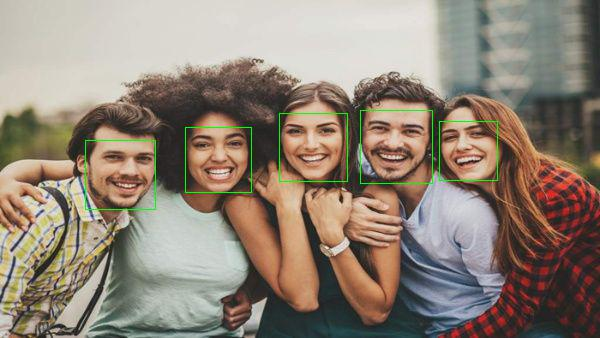
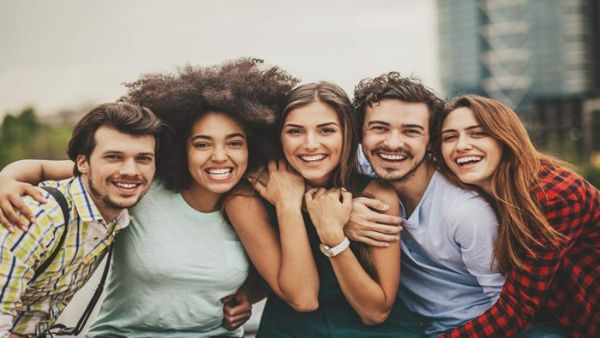
Add processed-images folder

Changed region(s): [[0.45, 0.2959, 0.84, 0.5621], [0.12, 0.3846, 0.27, 0.6509], [0.3, 0.355, 0.42, 0.5917]]

diff --git a/Server/server.py b/Server/server.py
@@ -9,6 +9,9 @@ import threading
 from fdlite import FaceDetection, FaceDetectionModel
 from fdlite.render import Colors, detections_to_render_data, render_to_image 
 from PIL import Image
+import shutil
+
+DIRECTORY =  os.getcwd()
 
 class MyHandler(FTPHandler):
 
@@ -44,7 +47,9 @@ class MyHandler(FTPHandler):
             render_data = detections_to_render_data(faces, bounds_color=Colors.GREEN)
             newImage = render_to_image(render_data, image)
             fileName =  os.path.basename(str(file))
-            newImage.save('/home/racso/NetworkChallenge-FaceDetection/Server/raw-images/' + fileName)
+            newImage.save(DIRECTORY+"/processed-images/processed-"+fileName)
+            shutil.move(file, DIRECTORY+"/raw-images/"+fileName)
+        
         
     def on_incomplete_file_sent(self, file):
         # do something when a file is partially sent
@@ -59,7 +64,7 @@ def httpServer():
     HTTP_HOST = 'localhost'
     HTTP_PORT = 8000
     HANDLER = SimpleHTTPRequestHandler
-    os.chdir("/home/racso/NetworkChallenge-FaceDetection/Server/")
+    os.chdir(DIRECTORY)
     httpd = socketserver.TCPServer((HTTP_HOST,HTTP_PORT), HANDLER)
     httpd.serve_forever()
 
@@ -67,12 +72,11 @@ def ftpServer():
     FTP_PORT = 2121
     FTP_USER = "anonymous"
     FTP_PASSWORD = "anonymous@"
-    FTP_DIRECTORY = "/home/racso/NetworkChallenge-FaceDetection/Server/raw-images/"
 
     authorizer = DummyAuthorizer()
 
     # Define a new user having full r/w permissions.
-    authorizer.add_user(FTP_USER, FTP_PASSWORD, FTP_DIRECTORY, perm='elradfmw')
+    authorizer.add_user(FTP_USER, FTP_PASSWORD, DIRECTORY, perm='elradfmw')
 
     handler = MyHandler
     handler.authorizer = authorizer
